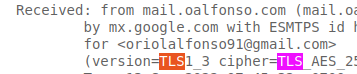
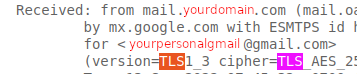
Edit tls img

Changed region(s): [[0.3389, 0.5135, 0.6779, 0.7027], [0.493, 0.0541, 0.7087, 0.2162]]

diff --git a/docs/posts/mailserver.md b/docs/posts/mailserver.md
@@ -329,7 +329,7 @@ yourdomain.com.		3224 IN	MX 0 mail.yourdomain.com.
 
 With this we can request our certificates, let's move to [Certificates](#certificates) section.
 
-## Certificates
+## TLS Certificates
 
 The main goals of this step are:
 
